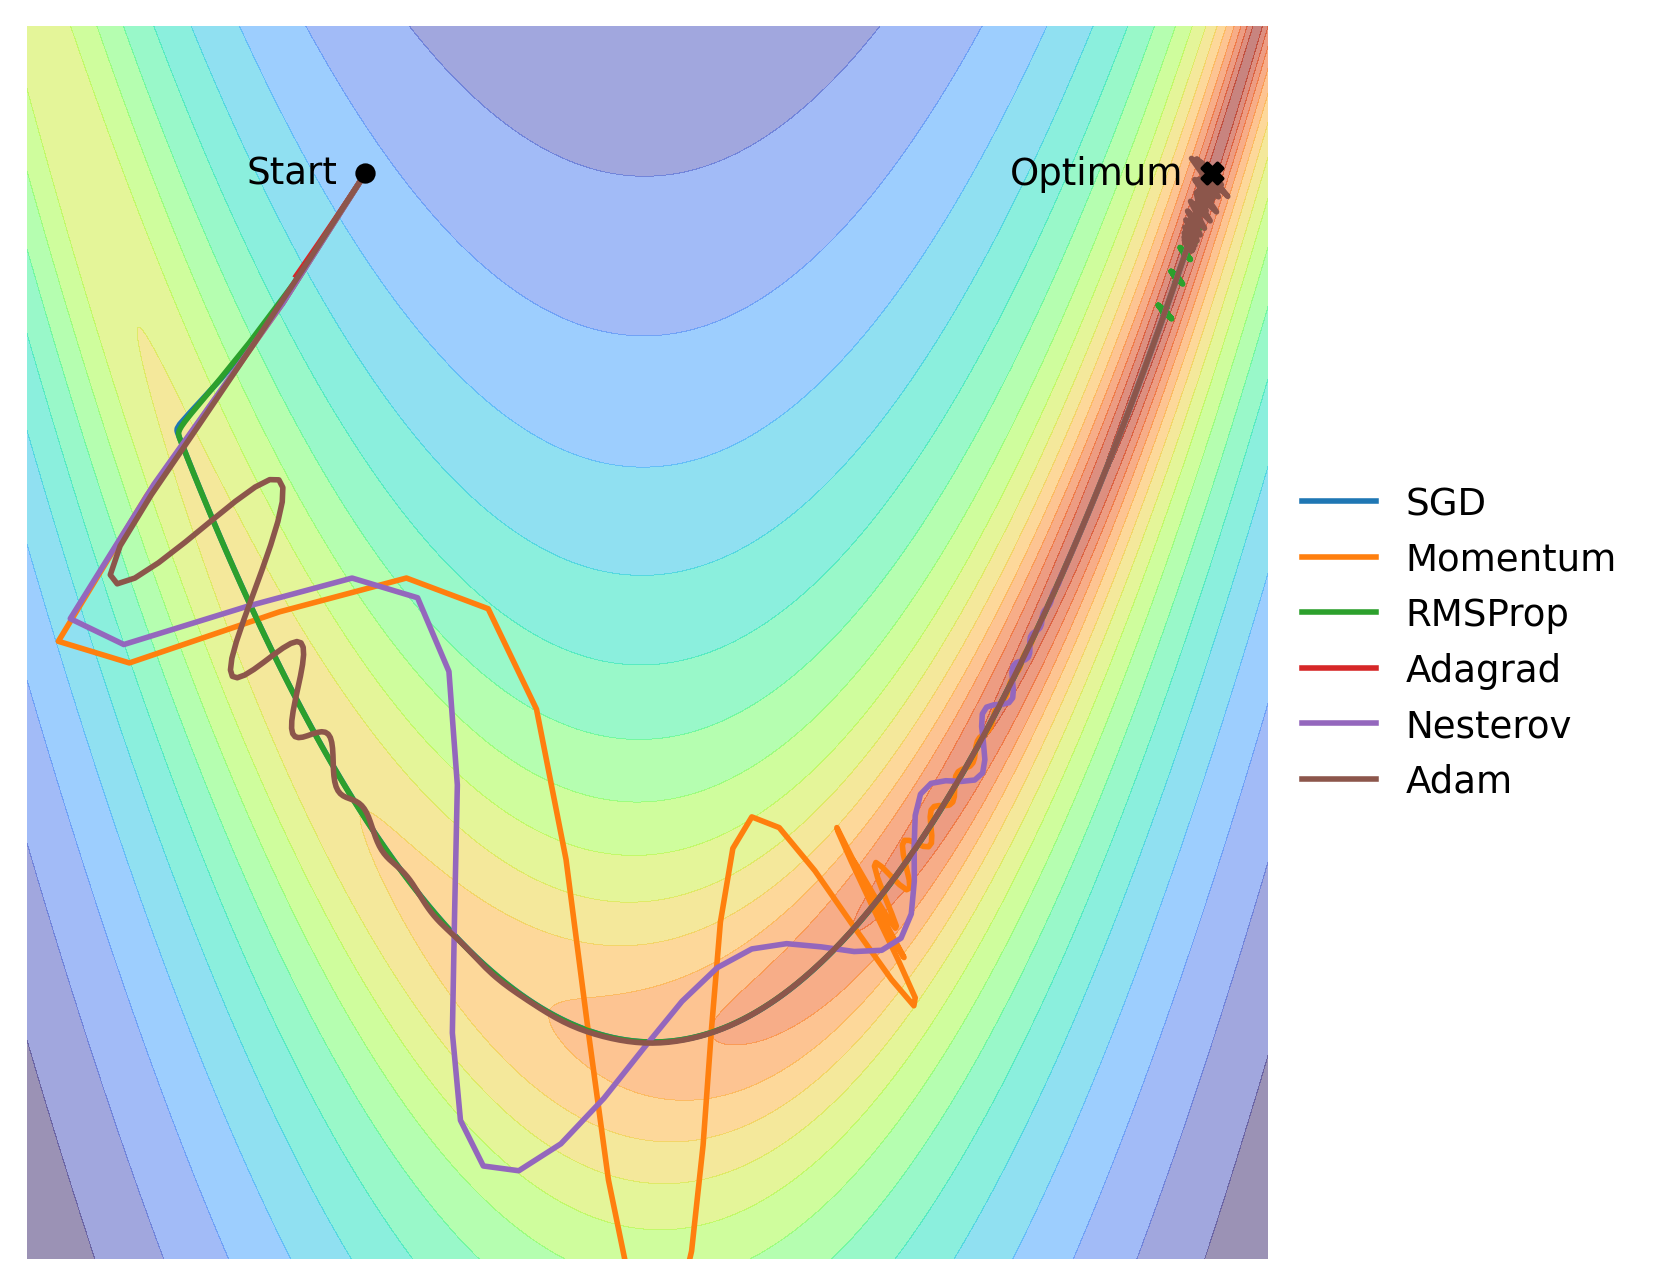
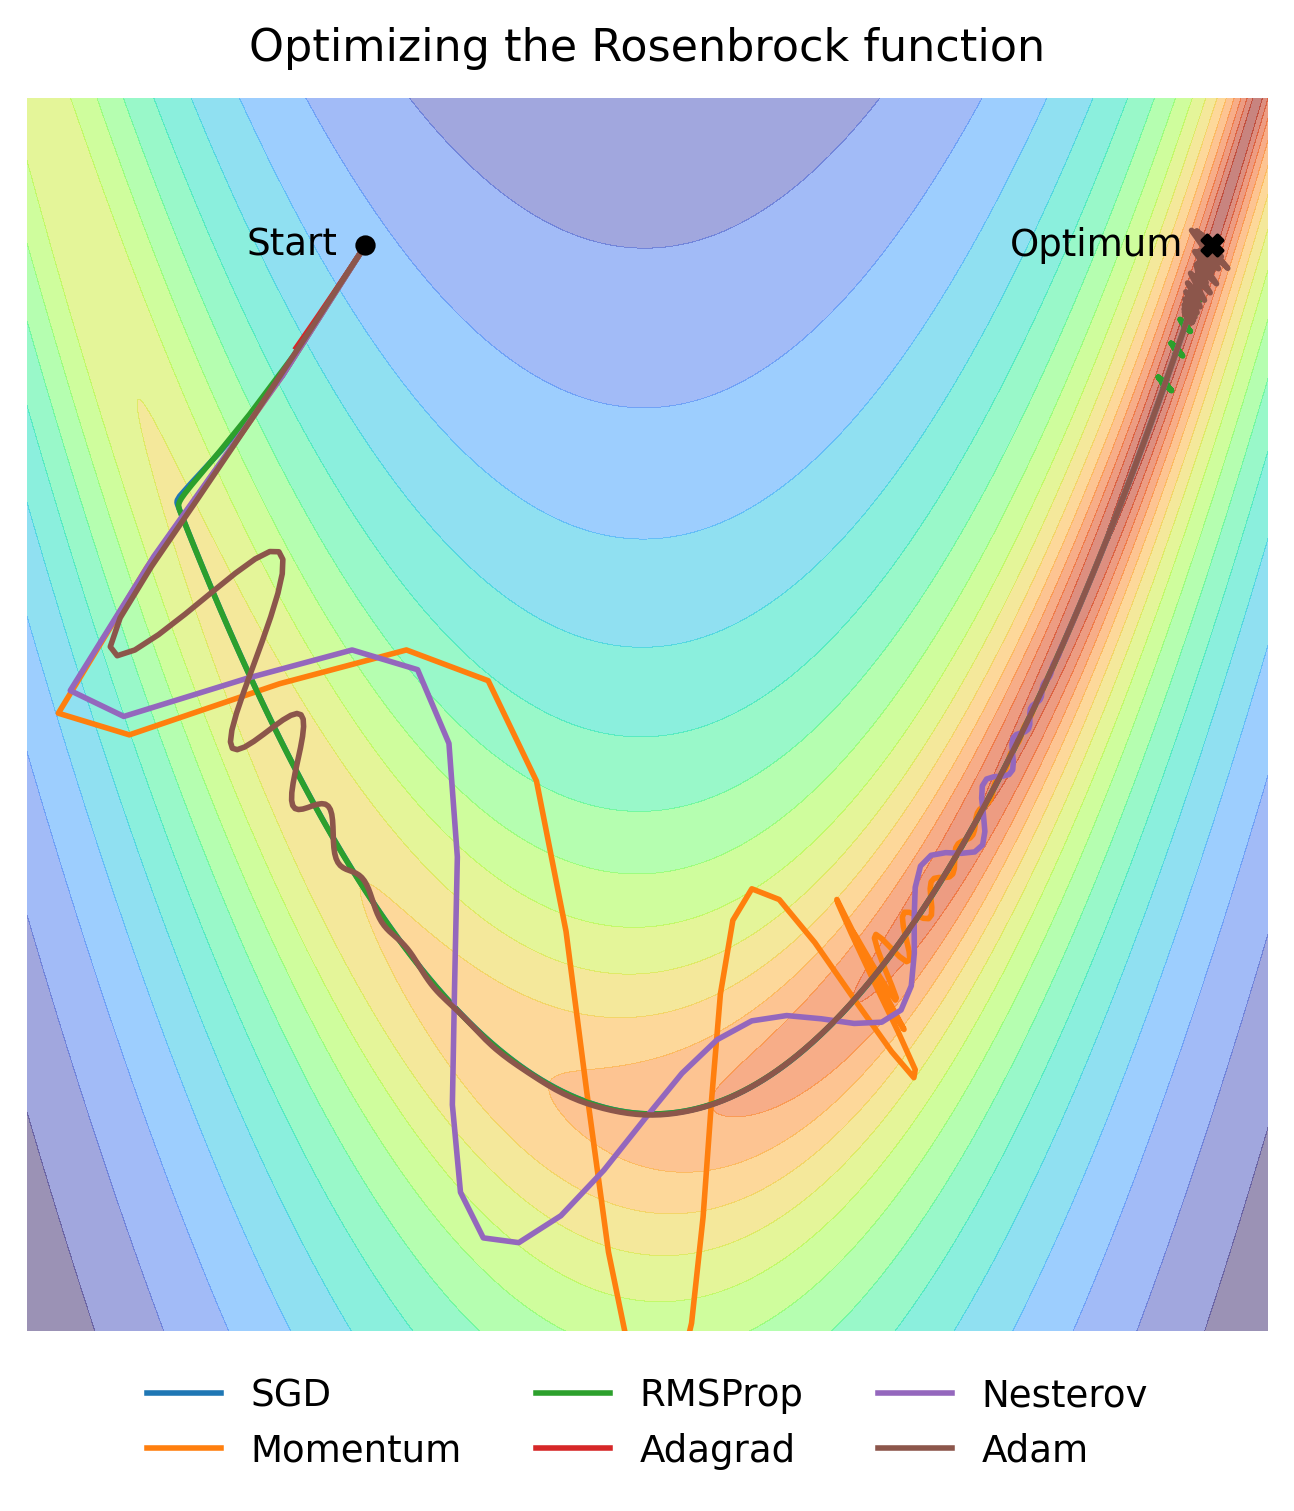
set rngs on module, print empty moduke

diff --git a/src/seli/core/_module.py b/src/seli/core/_module.py
@@ -8,6 +8,7 @@ from collections.abc import Callable, Hashable, Sequence
 from typing import Any, Self, TypeAlias
 
 import jax
+from jaxtyping import PRNGKeyArray
 
 from seli.core._registry import REGISTRY_INVERSE, ModuleBase
 from seli.core._typecheck import typecheck
@@ -88,6 +89,11 @@ class Module(ModuleBase, name="builtin.Module"):
 
     def __repr__(self) -> str:
         return node_repr(self)
+
+    def set_rngs(self, rngs: PRNGKeyArray | int) -> Self:
+        from seli.net._key import set_rngs
+
+        return set_rngs(self, rngs)
 
 
 LeafType: TypeAlias = (
@@ -601,6 +607,9 @@ def node_repr(obj: NodeType, /, indent: str = " " * 4) -> str:
         return f"<obj{obj!r}>"
 
     if isinstance(obj, list):
+        if not obj:
+            return "[]"
+
         head = "[\n"
         body = ""
 
@@ -613,6 +622,9 @@ def node_repr(obj: NodeType, /, indent: str = " " * 4) -> str:
         return head + body + tail
 
     if isinstance(obj, dict):
+        if not obj:
+            return "{}"
+
         head = "{\n"
         body = ""
 
@@ -625,15 +637,19 @@ def node_repr(obj: NodeType, /, indent: str = " " * 4) -> str:
         return head + body + tail
 
     if isinstance(obj, Module):
-        head = f"{obj.__class__.__name__}(\n"
-        body = ""
-
         keys = []
+
         if hasattr(obj, "__dict__"):
             keys.extend(obj.__dict__.keys())
 
         if hasattr(obj, "__slots__"):
             keys.extend(obj.__slots__)
+
+        if not keys:
+            return f"{obj.__class__.__name__}()"
+
+        head = f"{obj.__class__.__name__}(\n"
+        body = ""
 
         for key in sorted(keys):
             value = getattr(obj, key)

diff --git a/examples/rosenbrock.py b/examples/rosenbrock.py
@@ -120,9 +120,12 @@ ax.set_ylim(y.min(), y.max())
 # put legend outside of the plot
 ax.legend(
     frameon=False,
-    loc="center left",
-    bbox_to_anchor=(1, 0.5),
+    loc="upper center",
+    bbox_to_anchor=(0.5, -0.01),
+    ncol=3,
 )
+
+ax.set_title("Optimizing the Rosenbrock function", pad=10)
 
 fig.savefig(
     get_plot_path("rosenbrock.png"),

diff --git a/src/seli/README.md b/src/seli/README.md
@@ -61,10 +61,10 @@ The documentation will be available in `docs/_build/html`.
 - [x] Move layers to new param api
 - [x] Move tests to new param api
 - [x] Optimizer
+- [x] Documentation
+- [x] CI on github actions
+- [x] Push to pypi
 - [ ] set rngs from module
-- [ ] Documentation
-- [ ] CI on github actions
-- [ ] Push to pypi
 - [ ] Convnets
 - [ ] Dataloader
 - [ ] Datasets

diff --git a/README.md b/README.md
@@ -67,7 +67,7 @@ assert isinstance(model, Linear)
 
 ## Installation
 
-You can install from PiPy using pip
+You can install from PyPI using pip
 
 ```bash
 pip install seli
